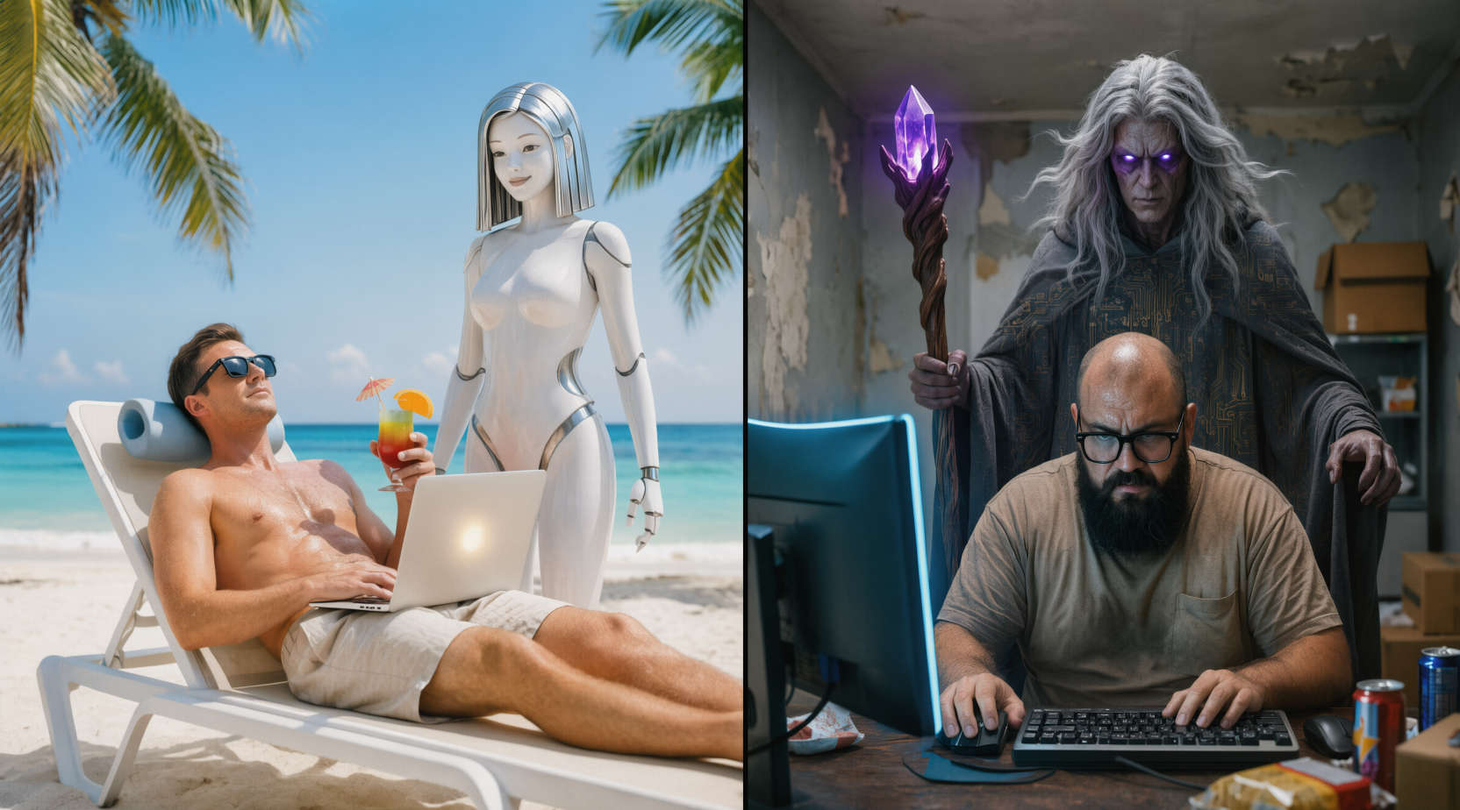
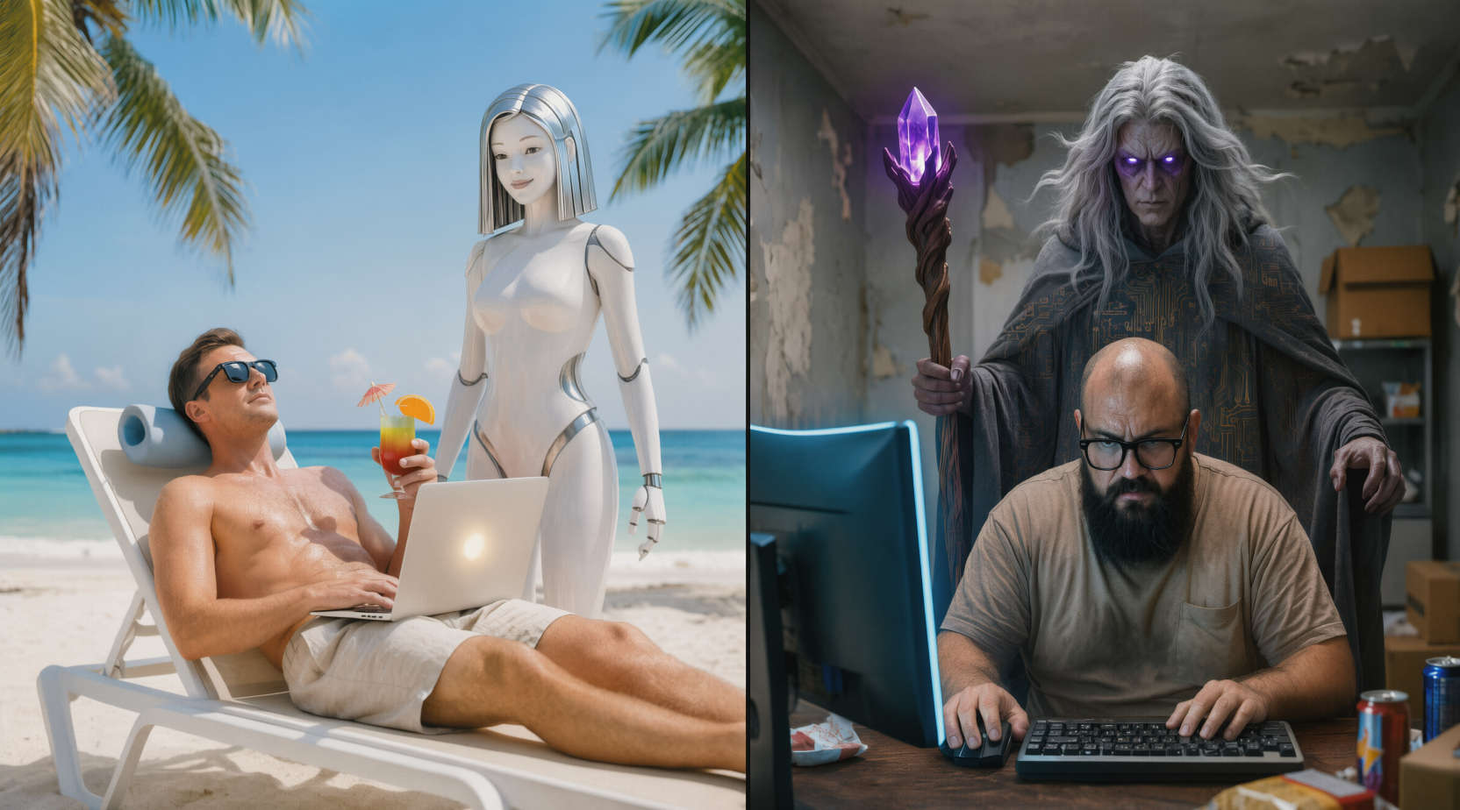
Шаг 5: Оружие (Мозг, Софт, Безопасность) + деплой на GitHub Pages

diff --git a/index.html b/index.html
@@ -36,6 +36,7 @@
                     <li>Дальше задаешь вопросы ты. Эффективность зависит от глубины твоих вопросов.</li>
                     <li>Если <strong>Демон</strong> задает встречный вопрос — отвечай честно.</li>
                 </ul>
+
                 <hr class="final-divider">
 
                 <p class="note"><em><strong>Готовых инструкций «повторяй за нами и будет успех» здесь нет. Мы даем базу, направление и инструменты. Основную работу ты делаешь сам или в диалоге с Демоном.</strong></em></p>
@@ -96,7 +97,7 @@
 
                 <hr class="final-divider">
 
-                <h3>ЗАДАНИЕ 1: РЕГИСТРАЦИЯ НА КВОРК</h3>
+                <h3>ЗАДАНИЕ 1: регистрация на Кворк</h3>
                 <p>Прямо сейчас зарегистрируйся на бирже <a href="https://kwork.ru" target="_blank">Kwork.ru</a>.</p>
                 <ol>
                     <li>Загрузить аватарку</li>
@@ -128,7 +129,7 @@
 </div>
                 </details>
 
-                <h3>ПРОКАЧАТЬ ДЕМОНА (ДЛЯ ПРОДВИНУТЫХ АДЕПТОВ)</h3>
+                <h3>ПРОКАЧАТЬ ДЕМОНА (для продвинутых адептов)</h3>
                 <details class="prompt-block">
                     <summary>Узнать как поставить постоянную память для DeepSeek</summary>
                     <div class="prompt-inner">
@@ -178,7 +179,7 @@
                 
                 <hr class="final-divider">
 
-                <h3>ЗАДАНИЕ 2: ИССЛЕДОВАНИЕ НАПРАВЛЕНИЙ НА КВОРК</h3>
+                <h3>ЗАДАНИЕ 2: исследование направлений на Кворк</h3>
                 <p>Прямо сейчас переходи на биржу <a href="https://kwork.ru" target="_blank">Kwork.ru</a> и проведи разведку боем:</p>
                 <ol>
                     <li>Выбери одно из семи основных направлений.</li>
@@ -259,7 +260,7 @@
 
                 <hr class="final-divider">
 
-                <h3>ЗАДАНИЕ 3: ПОГРУЖЕНИЕ В АД БИРЖИ</h3>
+                <h3>ЗАДАНИЕ 3: погружение в ад биржи</h3>
                 <p>Переходи в раздел <strong>«Биржа»</strong> (ссылка в верхнем меню Кворка).</p>
                 
                 <p><strong>Лайфхак навигации:</strong>
@@ -285,7 +286,7 @@
                 <p>Посмотри на счетчик откликов. 20, 30, 40 человек за первый час.
                 <br>Ты среди них — никто.</p>
 
-                <p><strong>4. ТЕСТ НА РЕАЛЬНЫЙ ДЕМПИНГ (ОБЯЗАТЕЛЬНО):</strong></p>
+                <p><strong>4. ТЕСТ НА РЕАЛЬНЫЙ ДЕМПИНГ (обязательно):</strong></p>
                 <p>В левом меню найди фильтр <strong>«Бюджет».</strong></p>
                 Введи <strong>500</strong> в поле «От руб.» и <strong>500</strong> в поле «До руб.». Нажми применить.</p>
                 <p>Здесь, на Бирже, это не маркетинг. Это реальные заказы, где заказчик готов заплатить ровно 500 рублей за задачу. Посмотри, сколько таких заявок висит. Посмотри, кто на них откликается.</p>
@@ -295,7 +296,7 @@
 
                 <hr class="final-divider">
 
-                <h3>ВЫЗОВ ДЕМОНА: ФИЛЬТР БЕЗУМИЯ</h3>
+                <h3>ВЫЗОВ ДЕМОНА: фильтр безумия</h3>
                 <p>Глаза новичка видят «заказ» и думают «деньги». <strong>Демон</strong> видит «ловушку» и говорит «беги». Используй его как фильтр от токсичных заданий и оценку реальной сложности.</p>
                 <p><strong>Важно:</strong> Скопируй промпт ниже. Отправь его <strong>Демону.</strong> Затем скопируй текст задания с Биржи и отправь следом. <strong>Демон</strong> оценит, стоит ли вообще связываться с этим заказчиком, и посчитает реальную ставку в час.</p>
 
@@ -366,7 +367,7 @@
 
                 <hr class="final-divider">
                 
-                <h3>ВЫЗОВ ДЕМОНА: ФИНАЛЬНАЯ ПРОВЕРКА</h3>
+                <h3>ВЫЗОВ ДЕМОНА: финальная проверка</h3>
                 <p>Прежде чем сделать шаг, спроси <strong>Демона.</strong> Не «стоит ли мне оставаться», а «готов ли я к тому, что будет дальше».</p>
 
                 <details class="prompt-block">
@@ -416,9 +417,180 @@
 </table>        
         </section>
             
-        <!-- Заглушки для остальных шагов -->
+        <!-- ШАГ 5: ОРУЖИЕ -->
+        <section id="step5" class="step-section-full">
+            <div class="full-width-meme">
+                <img src="assets/step5-weapons.jpg" alt="Арсенал Воина: мечи и Демон" class="meme-image">
+            </div>
 
-        <section id="step5" class="step-section"><h1>ШАГ 5: Оружие</h1><p>Контент шага...</p></section>
+            <div class="text-column">
+                <h1>ШАГ 5: ОРУЖИЕ</h1>
+                
+                <p class="note"><em><strong>Внимание!</strong> Этот арсенал собран исключительно для ниши «Дизайн». Если ты выбрал другой путь, запроси у Демона отдельный список.</em></p>
+
+                <!-- ЧАСТЬ 1: МОЗГ -->
+                <h2>ЧАСТЬ 1: НЕЙРОСЕТИ. Твой мозг и художник</h2>
+                <p><strong>Нейросеть — это не сотрудник. Это экзоскелет для твоего мозга.</strong> Без тебя она генерирует мусор. С тобой — ускоряет работу в 10 раз.</p>
+                <p>Но есть проблема: большинство топовых ИИ стоят денег и требуют зарубежных карт. Платить 2000₽ в месяц, когда ты еще не взял ни одного заказа — финансовое самоубийство.</p>
+                <p><strong>Наш принцип:</strong> Используем только то, что бесплатно (или имеет щедрый free-лимит), работает из РФ без VPN и принимает российские карты.</p>
+                
+                <hr class="final-divider">
+
+                <h3>ОСНОВНОЙ ВЫБОР: Qwen и DeepSeek</h3>
+                <ul>
+                    <li><strong><a href="https://chat.qwen.ai" target="_blank">Qwen</a></strong> Мультимодальная модель. Умеет генерировать изображения прямо в чате (Qwen Image 3). Бесплатные лимиты генерации картинок в 3 раза выше, чем у ChatGPT Free. Отлично понимает контекст, пишет код, структурирует идеи. Работает быстро, бесплатно, без VPN.</li>
+                    <li><strong><a href="https://chat.deepseek.com" target="_blank">DeepSeek</a></strong> Китайский ответ западным гигантам. Огромный контекст, умеет писать код и структурировать ТЗ лучше многих платных аналогов. Полностью бесплатен в базовой версии, доступен из РФ.</li>
+                </ul>
+
+                <p><strong>Почему НЕ ChatGPT и Claude прямо сейчас?</strong></p>
+                <ul>
+                    <li><strong>Лимиты:</strong> В бесплатном режиме ChatGPT душит ограничениями. Ты сделаешь 8-10 запросов, сненерил 5 картинок и упрешься в потолок.</li>
+                    <li><strong>Цена:</strong> Подписка стоит денег. Покупай её только когда доход от ИИ превысит стоимость подписки минимум в 3 раза (правило 3К — заработал 3000, можно потратить на подписку 1000).</li>
+                    <li><strong>Claude:</strong> Пока не умеет генерировать изображения. Для дизайнера на старте это критический минус.</li>
+                </ul>
+
+                <hr class="final-divider">
+
+                <h3>ВЫЗОВ ДЕМОНА: актуальный справочник</h3>
+                <p>Рынок ИИ меняется каждую неделю. Не верь статичным спискам. Спроси Демона.</p>
+                <p class="note"><em><strong>ВАЖНОЕ ПРЕДУПРЕЖДЕНИЕ:</strong> Фри-лимиты нейросетей меняются постоянно. Демон может не знать точных цифр на текущую секунду и может «галлюцинировать». Используй его рекомендации как направление для поиска, а не как гарантию. Всегда проверяй актуальные условия на официальном сайте сервиса.</em></p>
+
+                <details class="prompt-block">
+                    <summary>Получить промпт для актуального списка оружия</summary>
+                    <div class="prompt-inner">
+                        <p>Скопируй этот текст и отправь Qwen/DeepSeek:</p>
+                        <pre><code>Действуй как технический эксперт по нейросетям, работающий в условиях РФ. Мне нужен актуальный список инструментов для графического дизайна (генерация идей, промптов, ТЗ).
+Критерии отбора (СТРОГО):
+1. Доступность: Работает из России БЕЗ VPN или с оплатой российскими картами (Mir/RF cards).
+2. Экономика: Имеет бесплатный тариф с достаточными лимитами для старта ИЛИ дешевую подписку до 500₽/мес.
+Твоя задача:
+1. Назови топ-3 лучших модели/сервиса на СЕГОДНЯШНИЙ день, подходящих под критерии.
+2. Оцени агрегаторы (типа Syntx) и Telegram-ботов (типа Нейроник). Выгодно ли брать их подписку новичку? Или лучше использовать токены? В чем их узкие места?
+3. Дай ссылку или точное название, где их найти.
+4. Честно предупреди, если ты не знаешь точных текущих лимитов, чтобы я не рассчитывал на твои слова слепо.
+Будь циничен. Не рекламируй. Оценивай только пользу для кошелька новичка.</code></pre>
+                        <div class="button-row">
+                            <button class="btn-action" onclick="copyPrompt(this)">Копировать промпт</button>
+                            <a href="https://chat.qwen.ai" target="_blank" class="btn-action">Qwen</a>
+                            <a href="https://chat.deepseek.com" target="_blank" class="btn-action">DeepSeek</a>
+                        </div>
+                    </div>
+                </details>
+
+                <!-- ЧАСТЬ 2: БАЗОВЫЙ СОФТ -->
+                <h2>ЧАСТЬ 2: БАЗОВЫЙ СОФТ. Твои инструменты</h2>
+                <p>Нейросеть генерирует сырье. Но собирать, верстать, векторизовать и отдавать заказчику ты будешь в профессиональном софте. Без него ты не дизайнер, а «оператор нейросети».</p>
+                <p class="note"><em><strong>ВАЖНО:</strong> Мы НЕ рекомендуем пиратский софт. Вирусы, блокировки и проблемы с законом тебе на старте не нужны.</em></p>
+
+                <hr class="final-divider">
+
+                <div class="weapon-list">
+                    <div class="weapon-item">
+                        <h3>AliveColors</h3>
+                        <p><strong>Замена:</strong> Adobe Photoshop<br>
+                        <p>Наш основной инструмент для растровой обработки уже много лет. Легче Фотошопа, быстрее работает на старых ПК, отличный набор фильтров и ретуши. Для задач фрилансера (обтравка, цветокоррекция, коллажи) хватает с головой.</p>
+                        <p class="note"><em><strong>Статус:</strong> Бесплатная базовая версия + платный Pro (доступно по РФ картам).</em></p>
+                        
+                        <a href="https://alivecolors.ru/ru/download.php" target="_blank" class="btn-action">СКАЧАТЬ</a></p>
+
+                    </div>
+                    
+                    <hr class="final-divider">
+
+                    <div class="weapon-item">
+                        <h3>Affinity</h3>
+                        <p><strong>Замена:</strong> Adobe Illustrator / CorelDRAW</p>
+                        <p>Профессиональный векторный и растровый редактор. Стабильный, быстрый, покупается один раз навсегда. Никаких подписок.</p>
+                        <p><strong>ЛАЙФХАК:</strong> У нас Affinity работает БЕСПЛАТНО благодаря регистрации через аккаунт Canva. Это официальная партнерская интеграция: создаешь аккаунт Canva → получаешь доступ к Affinity без единой оплаты. Для новичка это лучший способ получить профессиональный софт за 0 рублей.</p>
+                        <p class="note"><em><strong>Статус:</strong> Бесплатно (через интеграцию с Canva) /  Разовая покупка (напрямую).</em></p>
+
+                        <a href="https://www.affinity.studio/download" target="_blank" class="btn-action">СКАЧАТЬ</a></p>
+
+                    </div>
+
+                    <hr class="final-divider">
+
+                    <div class="weapon-item">
+                        <h3>Figma</h3>
+                        <p><strong>Зачем:</strong> Стандарт индустрии для UI/UX, прототипов и веб-интерфейсов.</p>
+                        <p>Для простого графического дизайна её арсенал часто избыточен. Она заточена под веба и командную работу. Но знать её базовые функции нужно — многие заказчики просят исходники именно в Figma.</p>
+                        <p class="note"><em><strong>Статус:</strong> Бесплатно (для личного использования).</em></p>
+
+                    <a href="https://www.figma.com/" target="_blank" class="btn-action">РЕГИСТРАЦИЯ</a>
+
+                    </div>
+
+                    <hr class="final-divider">
+
+                    <div class="weapon-item">
+                        <h3>FontBase</h3>
+                        <p><strong>Зачем:</strong> Менеджер шрифтов. Когда у тебя 500+ шрифтов, система начинает тормозить. FontBase позволяет активировать шрифты только когда они нужны, группировать их по проектам и быстро искать.</p>
+                        <p class="note"><em><strong>Статус:</strong> Бесплатно (база покрывает 99% нужд).</em></p>
+
+                    <a href="https://fontba.se/downloads" target="_blank" class="btn-action">СКАЧАТЬ</a>
+
+                    </div>
+
+                    <hr class="final-divider">
+
+                    <div class="weapon-item">
+                        <h3>Canva</h3>
+                        <p><strong>Почему она больше не торт:</strong> Рынок перенасыщен шаблонами из Canva, и заказчики видят их за версту. «Канва-дизайн» стал синонимом дешевого и шаблонного.</p>
+                        <p><strong>Но аккаунт всё равно нужен:</strong> Для быстрых заглушек, сторис или когда заказчик сам просит «сделать как в Канве». Как правильно зарегистрировать аккаунт без санкций — разбираем в Этапе 2: Мастерство.</p>
+                        <p class="note"><em><strong>Статус:</strong> Бесплатно (сильно урезанный базовый функционал, даже не получится поменять размер холста).</em></p>
+
+                        <a href="https://www.canva.com/" target="_blank" class="btn-action">РЕГИСТРАЦИЯ</a>
+                    </div>
+                </div>
+
+                    <hr class="final-divider">
+
+                    <p><strong>Стратегическая подсказка:</strong> Не пытайся выучить всё сразу. Выбери одну связку: например, <em>Qwen (идеи) + (генерация) + AliveColors (ретушь) + Affinity (вектор и текст)</em>. Этого набора хватит для 80% заказов на Кворке на старте.</p>
+
+                <!-- ЧАСТЬ 3: ЗАЩИТА -->
+                <h2>ЧАСТЬ 3: ЗАЩИТА. Страховка и безопасность</h2>
+                <p>Ты вооружен мозгом и софтом. Но если ты выйдешь на поле боя без щита, тебя уничтожат не конкуренты, а собственные ошибки. Фриланс — это зона повышенного риска. Здесь нет отдела кадров и юристов.</p>
+                <p class="note"><em><strong>ВАЖНО:</strong> Мы не даем здесь шаблоны договоров и юридические консультации. Мы даем принципы выживания, которые работают всегда.</em></p>
+
+                <h3>Три правила защиты</h3>
+                <ol>
+                    <li><strong>Безопасная сделка — твоя броня.</strong> Никогда не работай «на честном слове» с новым заказчиком. Используй встроенные механизмы биржи (Безопасная сделка на Кворке, Сейф на FL). Деньги замораживаются до acceptance работы.</li>
+                    <li><strong>Проверка заказчика — твой радар.</strong> Прежде чем брать заказ, пробей его: дата регистрации, количество завершенных проектов, отзывы от исполнителей. Красные флаги: аккаунт создан вчера, 0 отзывов, требует перейти в Telegram до сделки, просит «тестовое бесплатно».</li>
+                    <li><strong>Предоплата или поэтапная оплата — твой меч.</strong> Не начинай работу без финансового подтверждения. Для крупных заказов разбивай их на этапы. Первый этап = предоплата. Нет оплаты = нет работы.</li>
+                </ol>
+
+                <h3>ВЫЗОВ ДЕМОНА: проверка на вшивость</h3>
+                <p>Глаза новичка видят «крупный заказ» и думают «удача». <strong>Демон</strong> видит «развод» и говорит «стоп». Используй его как детектор лжи.</p>
+
+                <details class="prompt-block">
+                    <summary>Получить промпт для проверки заказчика</summary>
+                    <div class="prompt-inner">
+                        <p>Скопируй этот текст и отправь Qwen/DeepSeek:</p>
+                        <pre><code>Действуй как циничный юрист и специалист по безопасности на фриланс-биржах с 20-летним стажем. Твоя задача — защитить меня от мошенников и недобросовестных заказчиков.
+Я пришлю тебе текст переписки с заказчиком или описание заказа. Проанализируй его по следующим пунктам:
+1. КРАСНЫЕ ФЛАГИ: Есть ли признаки мошенничества, манипуляции или токсичности? (Фразы типа "потом доплачу", "работаем без биржи", "сделай тестовое бесплатно").
+2. ОЦЕНКА РИСКА (1-10): Насколько вероятно, что я потеряю время или деньги? (10 — гарантированный кидок).
+3. СОВЕТ ПО БЕЗОПАСНОСТИ: Как мне защитить себя в этой конкретной ситуации? (Например: "Требуй безопасную сделку", "Попроси предоплату 50%", "Беги немедленно").
+4. ШАБЛОН ОТВЕТА: Если ситуация спорная, напиши вежливый, но жесткий ответ, который обозначит мои границы.
+Будь параноиком. Лучше я потеряю заказ, чем деньги и нервы.
+Жду текст переписки или описание заказа для анализа.</code></pre>
+                        <div class="button-row">
+                            <button class="btn-action" onclick="copyPrompt(this)">Копировать промпт</button>
+                            <a href="https://chat.qwen.ai" target="_blank" class="btn-action">Qwen</a>
+                            <a href="https://chat.deepseek.com" target="_blank" class="btn-action">DeepSeek</a>
+                        </div>
+                    </div>
+                </details>
+
+                <div class="account-warning">
+                    <p><strong>Стратегическая подсказка:</strong> Безопасность — это не паранойя, это профессионализм. Каждый раз, когда ты пропускаешь заказ через фильтр <strong>Демона</strong> и безопасную сделку, ты строишь свою репутацию надежного исполнителя. А репутация — это валюта, которая дороже любых разовых заработков.</p>
+                </div>
+
+            </div>
+        </section>
+
+
+        <!-- Заглушки для остальных шагов -->
 
         <section id="step6" class="step-section"><h1>ШАГ 6: Броня</h1><p>Контент шага...</p></section>
 

diff --git a/style.css b/style.css
@@ -402,4 +402,35 @@ li {
     .fork-cell:last-child {
         border-bottom: none;
     }
+
+/* =========================================
+   СПИСОК ОРУЖИЯ (Шаг 5) - ИСПРАВЛЕНО
+   ========================================= */
+.weapon-list {
+    max-width: 768px;
+    margin: 2em auto 0;
+}
+
+.weapon-item {
+    padding: 1em 0;
+}
+
+.weapon-item h3 {
+    margin-top: 0;
+    color: #7C18CE;
+    font-size: 1.1em;
+    text-transform: uppercase;
+    margin-bottom: 0.5em;
+}
+
+.weapon-item p {
+    margin-bottom: 0.8em;
+}
+
+.weapon-item .note {
+    margin-top: 1em;
+    padding-top: 0.8em;
+    border-top: 1px solid #163E4F;
+}
+
 }
